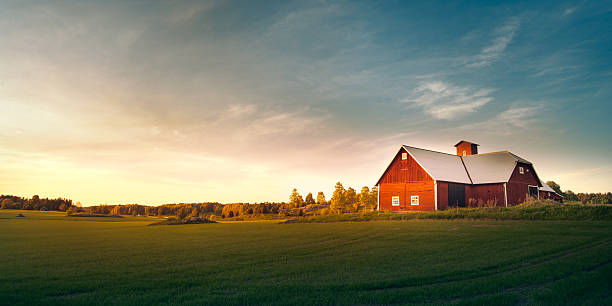
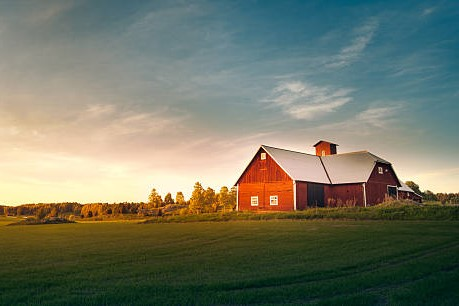
commit

diff --git a/shoot/gallery.html b/shoot/gallery.html
@@ -105,9 +105,9 @@
                 </a>
               </div>
               <div class="gallery">
-                <a href="css/images/istockphoto13.jpg" target="_blank">
+                <a href="css/images/istockphoto15.jpg" target="_blank">
                   <img
-                    src="css/images/istockphoto13.jpg"
+                    src="css/images/istockphoto15.jpg"
                     alt="Barn"
                     width="600"
                     height="400"
